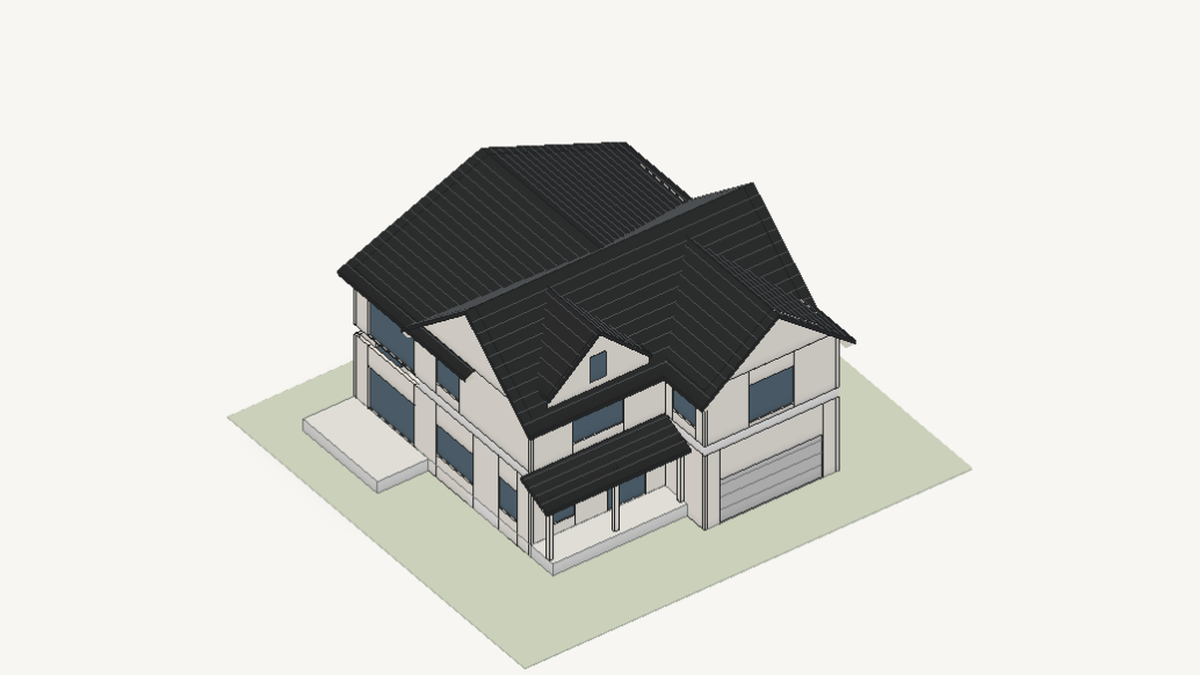
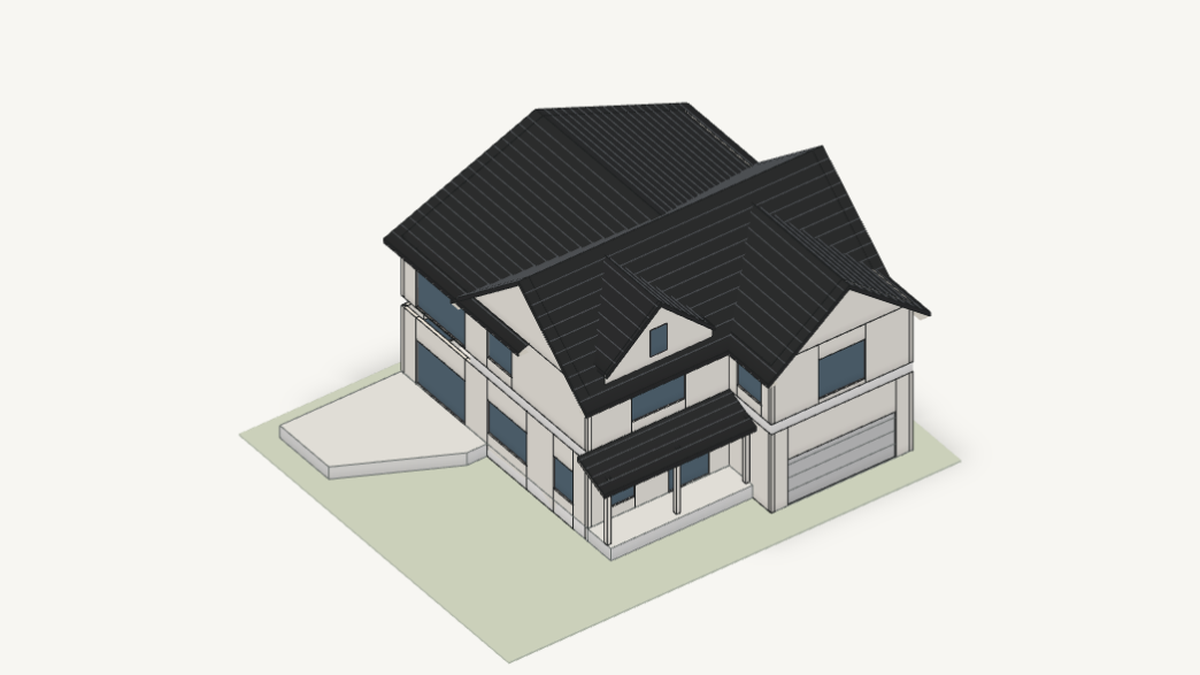
Portfolio: Snohomish two-story page rebuilt on current main, fresh card image

diff --git a/portfolio/snohomish-two-story/index.html b/portfolio/snohomish-two-story/index.html
@@ -227,7 +227,7 @@
         </div>
         <div class="ppgm-house-live">
           <p class="ppgm-hint" aria-hidden="true">Scroll <span class="ppgm-hint-chevron">↓</span></p>
-          <div class="ppgm-house-sheet" role="img" aria-label="Illustrative drawing of Two-story house with attached garage.">
+          <div class="ppgm-house-sheet" role="img" aria-label="Drawing of Two-story house with attached garage.">
             <canvas class="ppgm-house-canvas" width="960" height="540" tabindex="0" aria-describedby="ppgm-explore-help" aria-label="Interactive model: Two-story house with attached garage"></canvas>
             <div class="ppgm-labels" aria-hidden="true"></div>
           </div>
@@ -330,7 +330,7 @@
   <section id="another-story-cta" class="max-w-6xl mx-auto px-4 py-10 relative z-20 border-t border-white/5">
     <div class="bg-charcoal border border-secondary/25 rounded-xl overflow-hidden flex flex-col md:flex-row card-hover">
       <div class="md:w-2/5 shrink-0">
-        <img src="/assets/images/another-story-banner-800.webp" alt="Illustrative: conceptual before-and-after second-story idea for Another Story SEA in Puget Sound" class="w-full h-40 md:h-full object-cover" width="640" height="360" loading="eager" srcset="/assets/images/another-story-banner-480.webp 480w, /assets/images/another-story-banner-800.webp 800w, /assets/images/another-story-banner-1200.webp 1200w" sizes="(max-width: 640px) 100vw, 800px" fetchpriority="high">
+        <img src="/assets/images/another-story-banner-800.webp" alt="Conceptual before-and-after second-story idea for Another Story SEA in Puget Sound" class="w-full h-40 md:h-full object-cover" width="640" height="360" loading="eager" srcset="/assets/images/another-story-banner-480.webp 480w, /assets/images/another-story-banner-800.webp 800w, /assets/images/another-story-banner-1200.webp 1200w" sizes="(max-width: 640px) 100vw, 800px" fetchpriority="high">
       </div>
       <div class="p-6 md:p-8 flex flex-col justify-center gap-3">
         <p class="text-[11px] font-bold uppercase tracking-[0.2em] text-secondary">Board feature</p>
